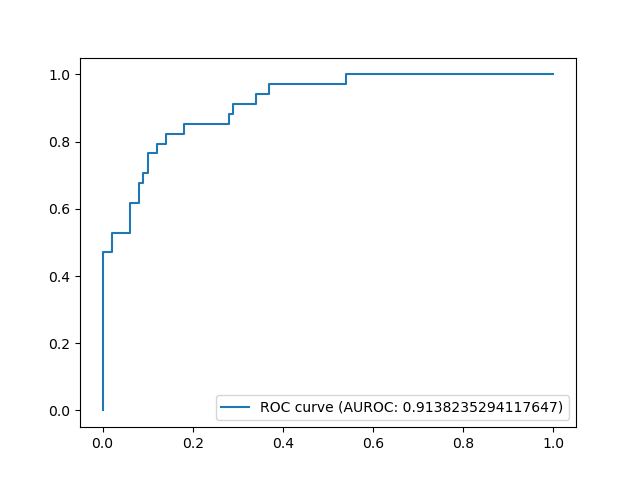
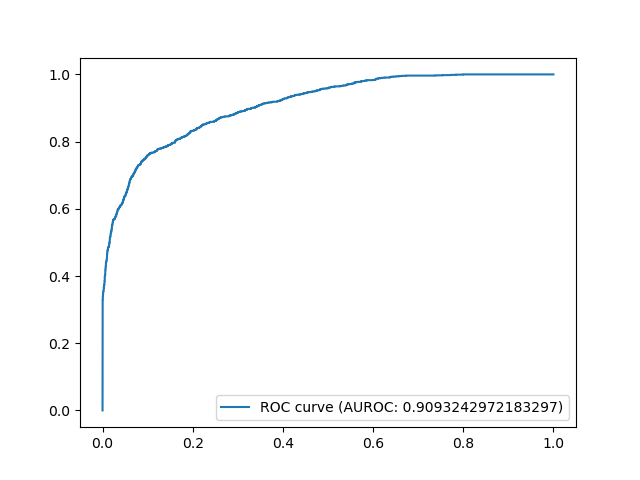
NTU rsults for windows instead of trace

diff --git a/NTU/test_drift.py b/NTU/test_drift.py
@@ -4,7 +4,7 @@ import torch
 from torch.cuda import current_blas_handle
 from network import Bi3DOF, Encoder, Decoder
 from datasets import seed, Bi3DOFDataset
-from more_utils import make2D, OOD_score_to_iD_score, min_of_each_row, compute_epsilon_on_iD_traces_only, scan_iD_scores_of_windows, scan_iD_scores_of_windows_and_print_list
+from more_utils import make2D, OOD_score_to_iD_score, min_of_each_row, compute_epsilon_on_iD_traces_only, scan_iD_scores_of_windows, scan_iD_scores_of_windows_and_print_list, collapse_to_1D
 import os
 from sklearn.metrics import roc_curve, roc_auc_score
 import matplotlib.pyplot as plt
@@ -110,17 +110,21 @@ def run(type_of_OOD):
 		OOD_scores_flattened = [h[i]+v[i] for i in range(len(h))]
 		OOD_scores_2D_list = make2D(OOD_scores_flattened, args.n_seqs)
 		iD_scores_2D_list = OOD_score_to_iD_score(OOD_scores_2D_list)
-		iD_scores_for_each_trace = min_of_each_row(iD_scores_2D_list)
+		#iD_scores_for_each_trace = min_of_each_row(iD_scores_2D_list)
+		# if we consider window instead of trace as one datapoint, do following
+		iD_scores_windows = collapse_to_1D(iD_scores_2D_list)
 		if ('in' in bi3dof_simple["test_clips"]):
 			GT = 1
 		else:
 			GT = 0
-		GTs_for_each_trace = [GT for _ in range(len(iD_scores_for_each_trace))]
+		#GTs_for_each_trace = [GT for _ in range(len(iD_scores_for_each_trace))]
+		GTs_for_each_trace = [GT for _ in range(len(iD_scores_windows))]
 
 		if GT==0:
 			iD_scores_2D_list_of_OOD_traces_only = iD_scores_2D_list
 
-		iD_scores_all.extend(iD_scores_for_each_trace)
+		#iD_scores_all.extend(iD_scores_for_each_trace)
+		iD_scores_all.extend(iD_scores_windows)
 		GTs_all.extend(GTs_for_each_trace)
 
 	fpr, tpr, threshs = roc_curve(GTs_all, iD_scores_all)

diff --git a/NTU/more_utils.py b/NTU/more_utils.py
@@ -16,6 +16,12 @@ def OOD_score_to_iD_score(list_2D):
 def min_of_each_row(list_2D):
 	return [min(row) for row in list_2D]
 
+def collapse_to_1D(list_2D):
+    list_1D = []
+    for row in list_2D:
+        list_1D.extend(row)
+    return list_1D
+
 def compute_epsilon_on_iD_traces_only(iD_scores_all, GTs_all, TPR=0.95):
     only_iD_traces_scores = []
     for trace_idx, trace_GT in enumerate(GTs_all):
